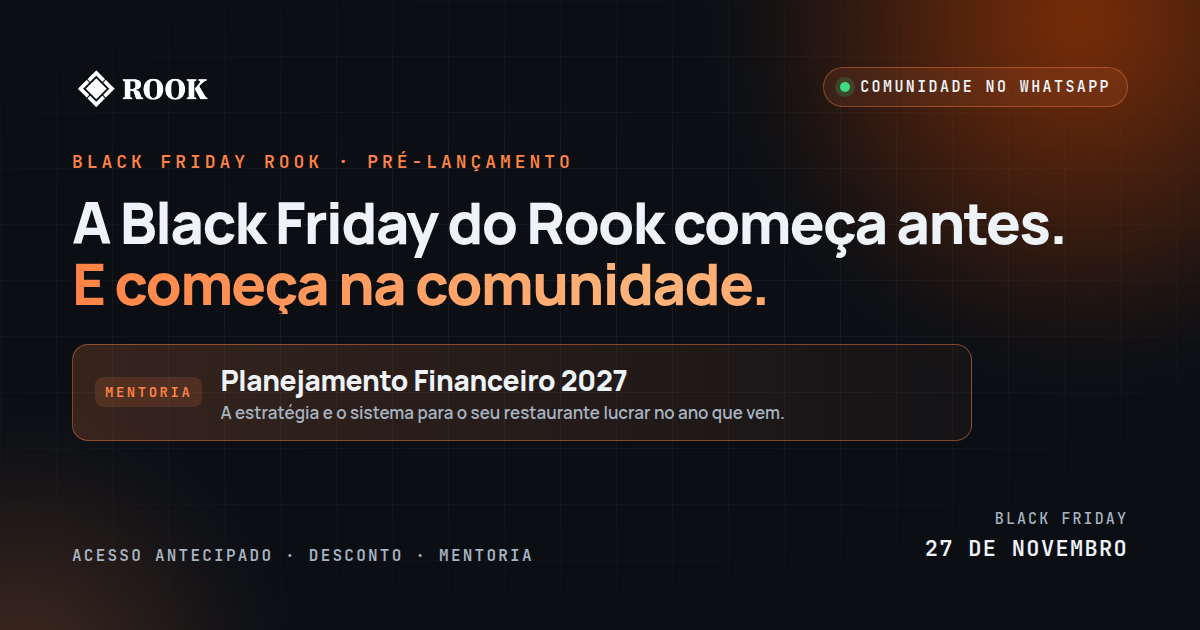
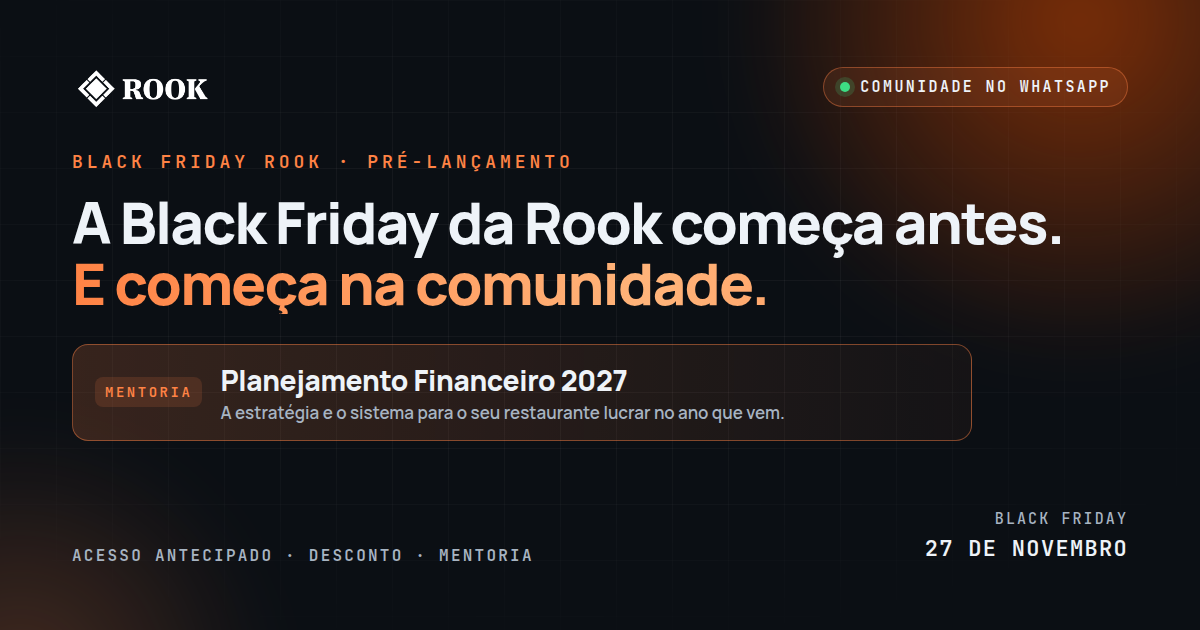
fix(bl1): a marca é feminina — "a Rook", não "o Rook" (ROO-1825)
Pedido do Gabriel em 09/11: metadados, hero, benefícios, mentoria, história e CTA final passam a usar "da Rook"/"na Rook"/"A Rook"; arte OG renderizada de novo ("A Black Friday da Rook começa antes."). Só copy; nenhuma mudança de layout ou comportamento.

Changed region(s): [[0.4008, 0.3317, 0.8942, 0.4222]]

diff --git a/src/lib/bf1-content.ts b/src/lib/bf1-content.ts
@@ -5,7 +5,7 @@
  *
  * REGRAS DESTA PÁGINA
  *
- * - Um CTA só: entrar na comunidade do Rook no WhatsApp. O link e a data vêm de
+ * - Um CTA só: entrar na comunidade da Rook no WhatsApp. O link e a data vêm de
  *   `bf1-community.mjs`; nenhum texto aqui cita link.
  * - Desconto e mentoria são PROMESSA DE CAMPANHA, sem regra inventada: nada de
  *   percentual, número de vagas ou critério de seleção. Essas condições são
@@ -30,10 +30,10 @@
  */
 export const BF1_CONTENT = {
   meta: {
-    title: "Black Friday do Rook e mentoria Planejamento Financeiro 2027 | Rook System",
+    title: "Black Friday da Rook e mentoria Planejamento Financeiro 2027 | Rook System",
     description:
-      "Entre na comunidade do Rook no WhatsApp: pré-lançamento da Black Friday, desconto e a oportunidade de uma mentoria personalizada de Planejamento Financeiro 2027.",
-    ogTitle: "Black Friday do Rook + mentoria de Planejamento Financeiro 2027",
+      "Entre na comunidade da Rook no WhatsApp: pré-lançamento da Black Friday, desconto e a oportunidade de uma mentoria personalizada de Planejamento Financeiro 2027.",
+    ogTitle: "Black Friday da Rook + mentoria de Planejamento Financeiro 2027",
     ogDescription:
       "Na comunidade do WhatsApp: pré-lançamento, desconto e a oportunidade de uma mentoria personalizada para o seu restaurante lucrar em 2027.",
     ogAlt: "Black Friday Rook — comunidade no WhatsApp com pré-lançamento, desconto e mentoria de Planejamento Financeiro 2027.",
@@ -47,11 +47,11 @@ export const BF1_CONTENT = {
   hero: {
     eyebrow: "Black Friday Rook · Pré-lançamento",
     liveTag: "Comunidade no WhatsApp",
-    headlinePlain: "A Black Friday do Rook começa antes.",
+    headlinePlain: "A Black Friday da Rook começa antes.",
     headlineEmphasis: "E começa na comunidade.",
     lead: {
       before:
-        "Entre na comunidade do Rook no WhatsApp. É lá que acontece o pré-lançamento: você conhece as condições antes de todo mundo, garante o desconto e ainda tem a oportunidade de uma mentoria personalizada de ",
+        "Entre na comunidade da Rook no WhatsApp. É lá que acontece o pré-lançamento: você conhece as condições antes de todo mundo, garante o desconto e ainda tem a oportunidade de uma mentoria personalizada de ",
       strong: "Planejamento Financeiro 2027",
       after: ".",
     },
@@ -96,7 +96,7 @@ export const BF1_CONTENT = {
         n: "02",
         icon: "tag",
         title: "Desconto de Black Friday",
-        text: "A condição especial do Rook para restaurantes, liberada primeiro para quem está na comunidade.",
+        text: "A condição especial da Rook para restaurantes, liberada primeiro para quem está na comunidade.",
       },
       {
         n: "03",
@@ -125,7 +125,7 @@ export const BF1_CONTENT = {
         n: "02",
         icon: "system",
         title: "O sistema",
-        text: "O Rook conecta vendas, notas e banco e mostra, em reais, quanto sobrou — para você acompanhar o plano todo mês.",
+        text: "A Rook conecta vendas, notas e banco e mostra, em reais, quanto sobrou — para você acompanhar o plano todo mês.",
       },
     ],
     proof: "Conduzida pelo time que gerenciou R$ 925 milhões de faturamento anual em consultoria em 2025.",
@@ -152,7 +152,7 @@ export const BF1_CONTENT = {
     stat: { value: "R$ 925 milhões", caption: "de faturamento anual gerenciado pela nossa consultoria em 2025." },
     paragraphs: [
       "Em 2025, gerenciamos em consultoria R$ 925 milhões de faturamento anual. Entramos onde a operação apertava, reestruturamos o que precisava ser reestruturado e ajudamos as empresas a voltar a ter resultado — de fato, não só no papel.",
-      "Todo esse conhecimento hoje roda de forma automatizada no Rook. O sistema conecta vendas, notas e banco do restaurante e mostra, em reais, quanto sobrou e qual é a próxima decisão.",
+      "Todo esse conhecimento hoje roda de forma automatizada na Rook. O sistema conecta vendas, notas e banco do restaurante e mostra, em reais, quanto sobrou e qual é a próxima decisão.",
     ],
     timeline: [
       { kicker: "20 anos", title: "Consultoria", text: "Controladoria, finanças corporativas e reestruturação de empresas." },
@@ -175,7 +175,7 @@ export const BF1_CONTENT = {
     label: "— Pré-lançamento",
     headlinePlain: "Entre antes e ",
     headlineEmphasis: "planeje 2027 com a gente.",
-    text: "A comunidade do Rook abre antes da Black Friday. O pré-lançamento, o desconto e a mentoria de Planejamento Financeiro 2027 começam lá.",
+    text: "A comunidade da Rook abre antes da Black Friday. O pré-lançamento, o desconto e a mentoria de Planejamento Financeiro 2027 começam lá.",
   },
 } as const;
 

diff --git a/src/app/bl1/page.tsx b/src/app/bl1/page.tsx
@@ -11,7 +11,7 @@ import { siteUrl } from "@/lib/site-origin";
 /*
  * LP de Black Friday `/bl1/` (ROO-1825).
  *
- * Uma página, um clique: entrar na comunidade do Rook no WhatsApp. Por isso a
+ * Uma página, um clique: entrar na comunidade da Rook no WhatsApp. Por isso a
  * seção de demonstração do rodapé não aparece aqui (RouteScopedAcquisition) e
  * o CTA do cabeçalho aponta para o fim da página.
  *
